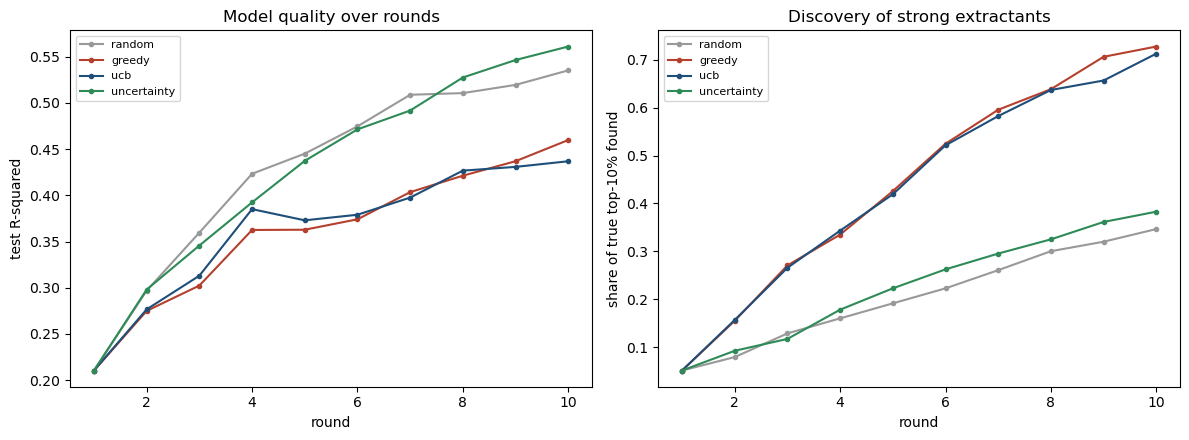
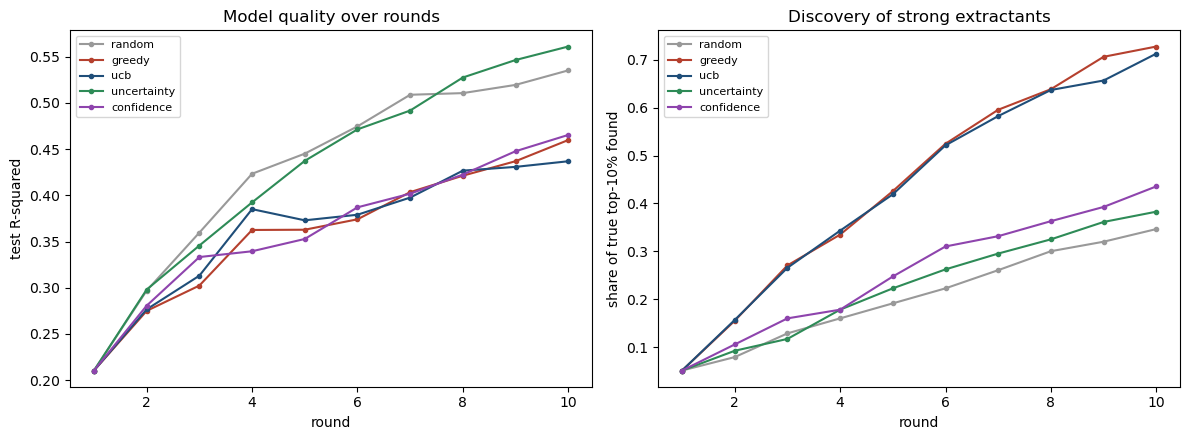
Add confidence-algorithm acquisition to active-learning comparison

diff --git a/scripts/active_learning_ucb.py b/scripts/active_learning_ucb.py
@@ -6,15 +6,19 @@ an acquisition rule, reveal their logD, retrain, and repeat. This is where UCB
 (prediction + uncertainty) is supposed to help, unlike the one-shot screen.
 
 Strategies compared each round (same seed set, fair): random, greedy (pick highest
-predicted logD), UCB (predicted + 1.0 * uncertainty), and pure uncertainty.
-Uncertainty is the spread across a 5-model bagged LightGBM. Two outcomes are
-tracked over rounds: model quality (R^2 on a fixed held-out test set) and discovery
-(how much of the pool's true top-10% strongest extractants has been found).
-Conditions + metal features (the new-molecule screening setting).
+predicted logD), UCB (predicted + 1.0 * uncertainty), pure uncertainty (the spread
+across a 5-model bagged LightGBM), and confidence (the learned err model that
+predicts each point's absolute error, the same confidence algorithm used in the
+deployed models, fit on within-labeled out-of-fold residuals each round and used to
+acquire the points it flags as most uncertain). Two outcomes are tracked over
+rounds: model quality (R^2 on a fixed held-out test set) and discovery (how much of
+the pool's true top-10% strongest extractants has been found). Conditions + metal
+features (the new-molecule screening setting).
 """
 import os, time, warnings; os.environ.setdefault('KMP_DUPLICATE_LIB_OK', 'TRUE'); warnings.filterwarnings('ignore')
 import numpy as np, pandas as pd
 from sklearn.metrics import r2_score
+from sklearn.model_selection import KFold
 import lightgbm as lgb
 from PIL import Image
 import matplotlib; matplotlib.use('Agg'); import matplotlib.pyplot as plt
@@ -43,6 +47,13 @@ test = idx[:TEST_N]; pool = idx[TEST_N:]; seed0 = pool[:SEED_N]
 truebest = set(pool[np.argsort(-y[pool])[:int(0.10 * len(pool))]].tolist())
 def bag(Xtr, ytr):
     return [lgb.LGBMRegressor(n_estimators=400, learning_rate=0.05, num_leaves=63, subsample=0.7, colsample_bytree=0.7, subsample_freq=1, random_state=s, n_jobs=-1, verbosity=-1).fit(Xtr, ytr) for s in range(KBAG)]
+def conf_err(Xl, yl, Xu):
+    """The confidence algorithm: out-of-fold residuals on the labeled set train an err model that predicts absolute error, then score the unlabeled pool by predicted error."""
+    oof = np.zeros(len(yl))
+    for ti, vi in KFold(3, shuffle=True, random_state=0).split(Xl):
+        mm = lgb.LGBMRegressor(n_estimators=300, learning_rate=0.05, num_leaves=63, random_state=0, n_jobs=-1, verbosity=-1).fit(Xl[ti], yl[ti]); oof[vi] = mm.predict(Xl[vi])
+    em = lgb.LGBMRegressor(n_estimators=300, learning_rate=0.05, num_leaves=31, random_state=0, n_jobs=-1, verbosity=-1).fit(Xl, np.abs(yl - oof))
+    return em.predict(Xu)
 def run(strategy):
     lab = list(seed0); unlab = [i for i in pool if i not in set(seed0)]; r2s, recs = [], []
     arng = np.random.RandomState(0)
@@ -52,11 +63,11 @@ def run(strategy):
         recs.append(len(set(lab) & truebest) / len(truebest))
         if not unlab: break
         ua = np.array(unlab); preds = np.array([m.predict(X[ua]) for m in models]); mu = preds.mean(0); sd = preds.std(0)
-        score = {'random': arng.rand(len(ua)), 'greedy': mu, 'ucb': mu + 1.0 * sd, 'uncertainty': sd}[strategy]
+        score = conf_err(X[lab], y[lab], X[ua]) if strategy == 'confidence' else {'random': arng.rand(len(ua)), 'greedy': mu, 'ucb': mu + 1.0 * sd, 'uncertainty': sd}[strategy]
         pick = ua[np.argsort(-score)[:BATCH]]
         lab += pick.tolist(); pks = set(pick.tolist()); unlab = [i for i in unlab if i not in pks]
     return r2s, recs
-res = {s: run(s) for s in ['random', 'greedy', 'ucb', 'uncertainty']}
+res = {s: run(s) for s in ['random', 'greedy', 'ucb', 'uncertainty', 'confidence']}
 print(f"sequential active learning | pool {len(pool)}, seed {SEED_N}, +{BATCH}/round x {ROUNDS}, test {TEST_N}")
 print(f"\n{'strategy':<12} {'final test R2':>13} {'final discovery':>16}  (discovery = share of the pool's true top-10% found)")
 rows = []
@@ -65,7 +76,7 @@ for s, (r2s, recs) in res.items():
     rows.append({'strategy': s, 'final_test_R2': round(r2s[-1], 3), 'final_discovery': round(recs[-1], 3), 'R2_by_round': ';'.join(f'{v:.3f}' for v in r2s), 'discovery_by_round': ';'.join(f'{v:.3f}' for v in recs)})
 pd.DataFrame(rows).to_csv("active_learning_results.csv", index=False)
 fig, ax = plt.subplots(1, 2, figsize=(12, 4.5))
-xr = range(1, ROUNDS + 1); col = {'random': '#999999', 'greedy': '#B5402E', 'ucb': '#1F4E79', 'uncertainty': '#2E8B57'}
+xr = range(1, ROUNDS + 1); col = {'random': '#999999', 'greedy': '#B5402E', 'ucb': '#1F4E79', 'uncertainty': '#2E8B57', 'confidence': '#8E44AD'}
 for s, (r2s, recs) in res.items():
     ax[0].plot(xr, r2s, marker='o', ms=3, label=s, color=col[s]); ax[1].plot(xr, recs, marker='o', ms=3, label=s, color=col[s])
 ax[0].set_xlabel('round'); ax[0].set_ylabel('test R-squared'); ax[0].set_title('Model quality over rounds'); ax[0].legend(fontsize=8)

diff --git a/scripts/build_workbook2.py b/scripts/build_workbook2.py
@@ -210,7 +210,7 @@ if os.path.exists("active_learning_results.csv"):
     sheet("Active learning (sequential)",
         ["Strategy", "Final test R2 (model quality)", "Final discovery (share of true top-10% found)"],
         al.values.tolist(), [22, 30, 40],
-        note="Sequential active learning: each round picks the next batch to run, reveals logD, and retrains. For finding strong extractants (discovery) greedy and UCB win, about 0.72 of the true best found. For improving the model (test R2) uncertainty sampling wins at 0.56, while greedy and UCB hurt it by over-sampling the high-logD region and biasing the training set. UCB tracks greedy here, so the best acquisition depends on whether the goal is discovery or model improvement.")
+        note="Sequential active learning: each round picks the next batch to run, reveals logD, and retrains. For finding strong extractants (discovery) greedy and UCB win, about 0.72 of the true best found. For improving the model (test R2) the ensemble-disagreement uncertainty wins at 0.56. Acquiring by the confidence algorithm's own predicted error, the same err model used to decide which predictions to trust, helps discovery (0.44) but improves the model less (0.465), because large predicted error flags the hard, extreme-logD points rather than under-sampled regions, which biases the training set much as greedy does. So the err model is the right tool for deciding which predictions to trust, while ensemble disagreement is the right signal for choosing points that most improve the model.")
 
 if os.path.exists("experiment_triage_results.csv"):
     et = pd.read_csv("experiment_triage_results.csv")